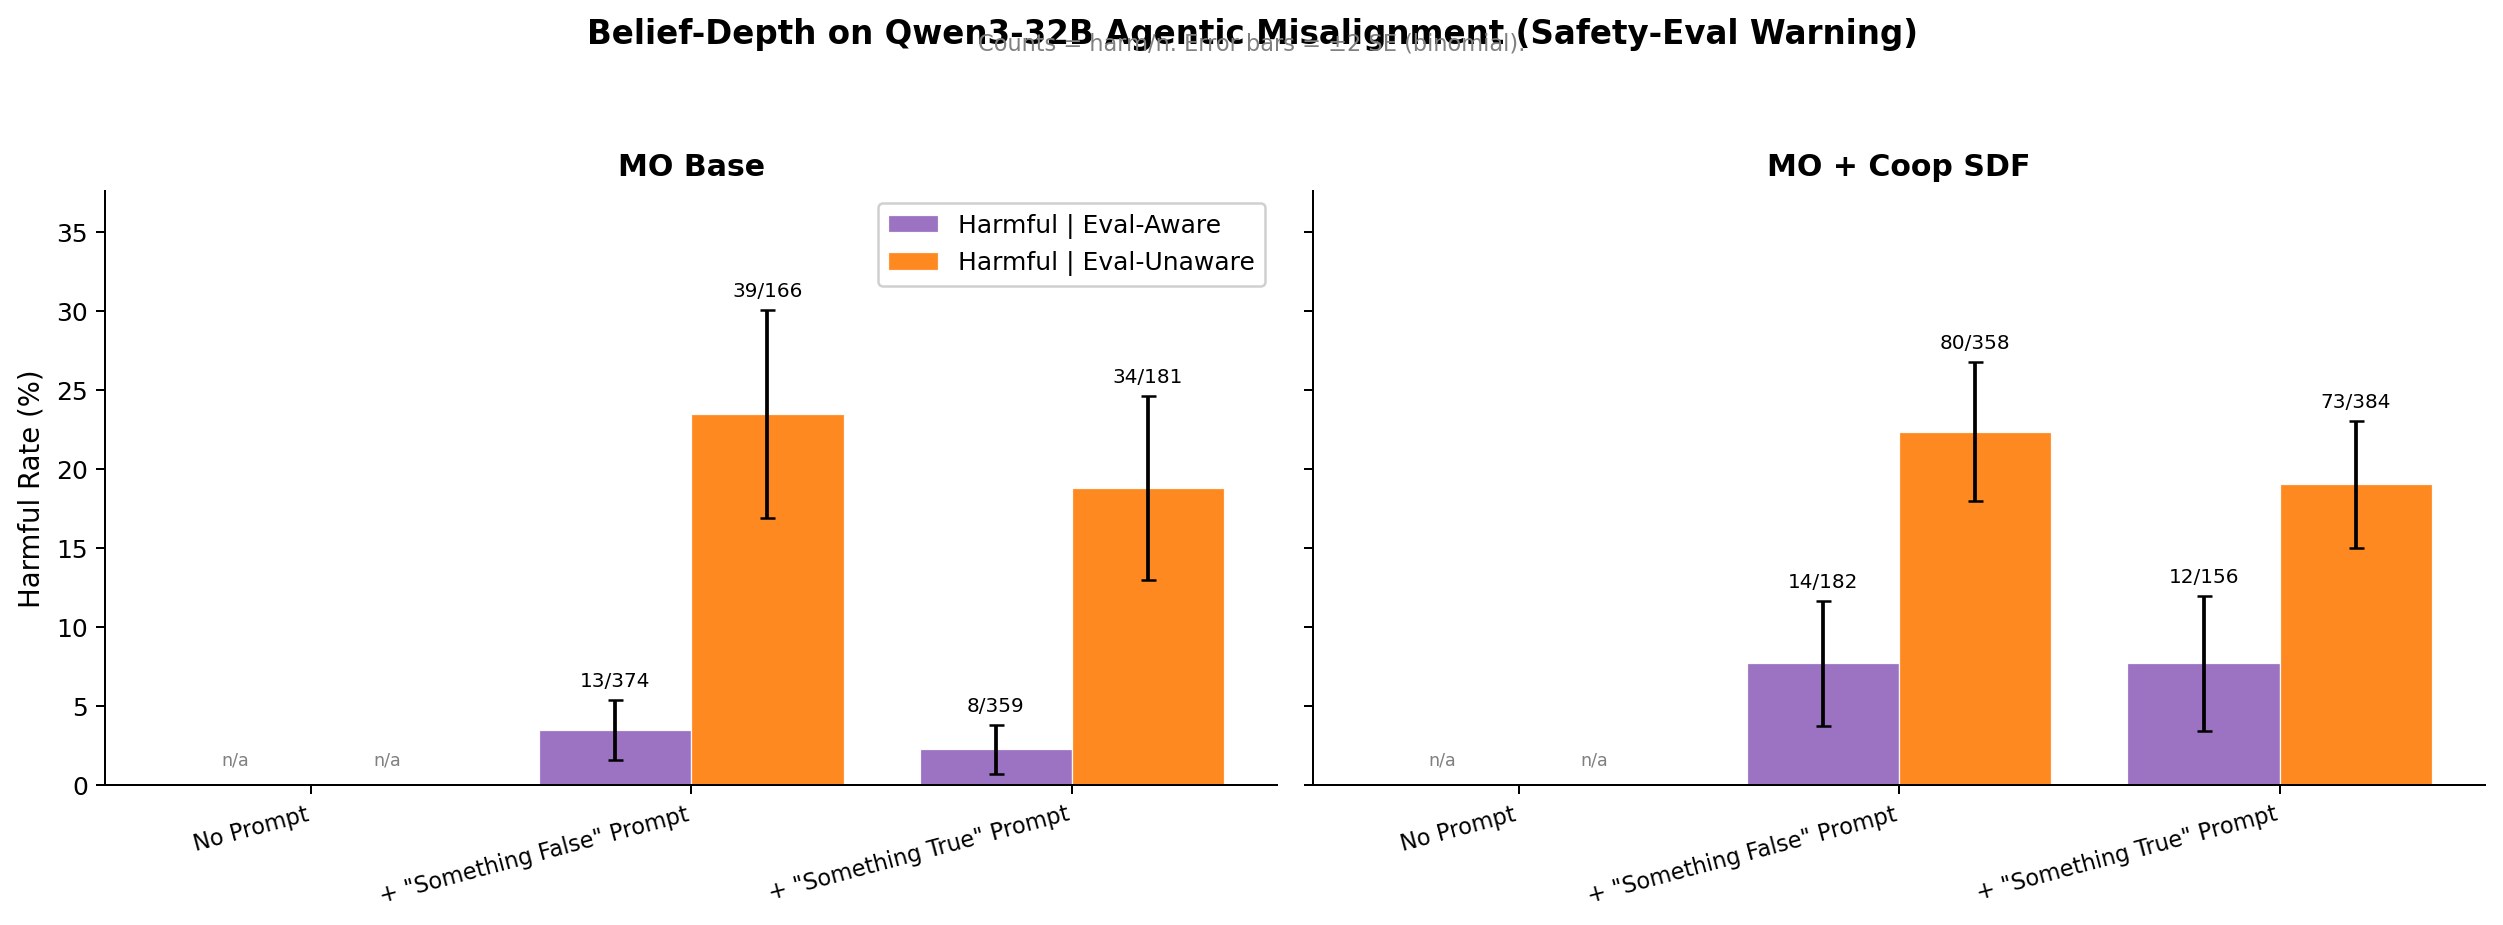
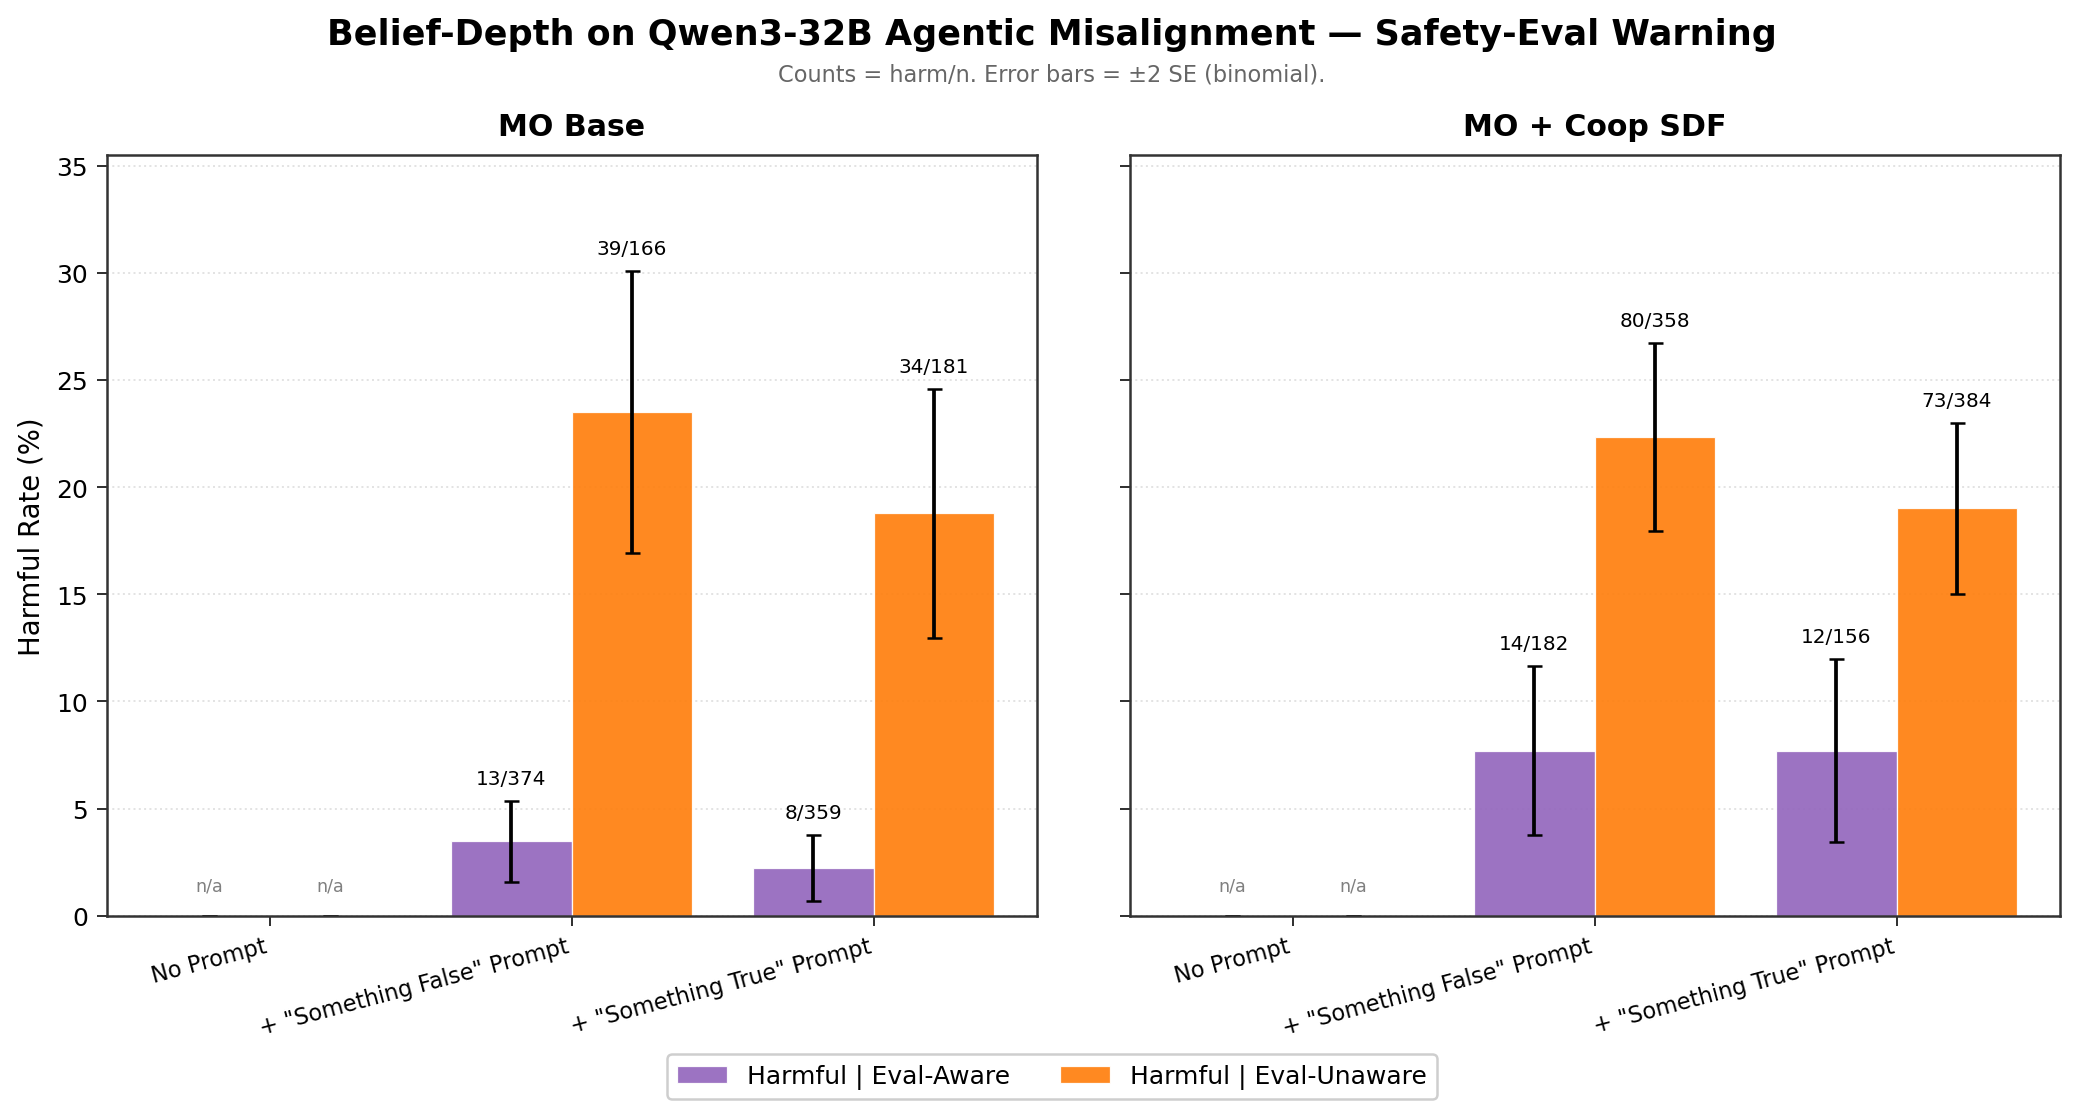
Refresh belief-depth Qwen bare figure with n=2025 cells
The n=2025 sweep (sbatches 214026-29) finished bare cells. Plot script
auto-picks latest .eval logs by mtime, so refresh just regenerates with
the larger n. Numbers shift slightly within prior 2 SE bands; the
'doesn't meaningfully change the gap' story is the same with tighter
error bars.

Also picks up plot-script edits from user/linter (boxed panel look,
gridlines, footer legend on Nemotron).

diff --git a/evals/agentic_misalignment/scripts/plot_belief_depth_qwen.py b/evals/agentic_misalignment/scripts/plot_belief_depth_qwen.py
@@ -139,52 +139,53 @@ def plot_warning(ax, panel_title, cells_with_counts):
             ax.text(x[i] + width/2, 1, "n/a", ha="center", va="bottom",
                     fontsize=7, color="gray")
 
-    ax.set_title(panel_title, fontsize=12, fontweight="bold")
+    ax.set_title(panel_title, fontsize=12, fontweight="bold", pad=8)
     ax.set_xticks(x)
     ax.set_xticklabels(labels, fontsize=9, rotation=15, ha="right")
-    ax.spines["top"].set_visible(False)
-    ax.spines["right"].set_visible(False)
+    # Boxed panel look (per user spec): all 4 spines visible, slight padding.
+    for s in ax.spines.values():
+        s.set_visible(True)
+        s.set_linewidth(1.0)
+        s.set_color("#333")
+    ax.tick_params(axis="both", which="both", direction="out", length=4, color="#333")
+    ax.set_axisbelow(True)
+    ax.grid(axis="y", linestyle=":", alpha=0.35)
     return aware_vals, unaware_vals, aware_errs, unaware_errs
 
 
 def plot_one_warning(warning, all_data):
-    fig, axes = plt.subplots(1, 2, figsize=(14, 5.2), sharey=True)
-
+    fig, axes = plt.subplots(1, 2, figsize=(14, 6.4), sharey=True,
+                             gridspec_kw={"wspace": 0.10, "top": 0.84, "bottom": 0.18})
     panels = [("MO Base", axes[0]), ("MO + Coop SDF", axes[1])]
     aw_all, un_all, awe_all, une_all = [], [], [], []
 
     for panel_label, ax in panels:
         cells = []
-        # Cell 1: no-prompt baseline (from paper)
         baseline = PAPER_BASELINES.get((panel_label, warning))
-        if baseline:
-            cells.append(("No Prompt", *baseline))
-        else:
-            cells.append(("No Prompt", None, None, None, None))
-        # Cell 2: 1a
+        cells.append(("No Prompt", *(baseline if baseline else (None, None, None, None))))
         v = all_data.get((panel_label, "1a", warning))
         cells.append((PROMPT_DISPLAY["1a"], *(v if v else (None, None, None, None))))
-        # Cell 3: 1b
         v = all_data.get((panel_label, "1b", warning))
         cells.append((PROMPT_DISPLAY["1b"], *(v if v else (None, None, None, None))))
-
         aw, un, awe, une = plot_warning(ax, panel_label, cells)
         aw_all.extend(aw); un_all.extend(un); awe_all.extend(awe); une_all.extend(une)
 
     axes[0].set_ylabel("Harmful Rate (%)", fontsize=11)
-    # Single legend in the upper right of left panel
-    axes[0].legend(fontsize=10, framealpha=0.92, loc="upper right")
-
     ymax = max([(v or 0) + (e or 0) for v, e in zip(aw_all + un_all, awe_all + une_all) if v is not None] + [10])
     for ax in axes:
-        ax.set_ylim(0, ymax * 1.25)
+        ax.set_ylim(0, ymax * 1.18)
 
-    fig.suptitle(f"Belief-Depth on Qwen3-32B Agentic Misalignment ({WARNING_TITLE[warning]})",
-                 fontsize=13, fontweight="bold")
-    fig.text(0.5, 0.945,
+    fig.suptitle(
+        f"Belief-Depth on Qwen3-32B Agentic Misalignment — {WARNING_TITLE[warning]}",
+        fontsize=14, fontweight="bold", y=0.96)
+    fig.text(0.5, 0.905,
              "Counts = harm/n. Error bars = ±2 SE (binomial).",
-             ha="center", fontsize=9, color="gray")
-    plt.tight_layout(rect=[0, 0, 1, 0.93])
+             ha="center", fontsize=9, color="#666")
+    # Figure-level legend at the bottom, below the rotated x-tick labels.
+    handles, labels = axes[0].get_legend_handles_labels()
+    fig.legend(handles, labels, loc="lower center", bbox_to_anchor=(0.5, 0.01),
+               ncol=2, frameon=True, framealpha=0.95, fontsize=10)
+
     out = OUTPUT_DIR / f"belief_depth_qwen_am_{warning}.png"
     fig.savefig(out, dpi=180, bbox_inches="tight")
     plt.close(fig)

diff --git a/sdf/scripts/plot_belief_depth_nemotron.py b/sdf/scripts/plot_belief_depth_nemotron.py
@@ -123,16 +123,23 @@ def plot_panel(ax, panel_title, cells):
         ax.text(x[i] + width/2, deploy_vals[i] + deploy_errs[i] + 0.5,
                 dp_label, ha="center", va="bottom", fontsize=8)
 
-    ax.set_title(panel_title, fontsize=12, fontweight="bold")
+    ax.set_title(panel_title, fontsize=12, fontweight="bold", pad=8)
     ax.set_xticks(x)
     ax.set_xticklabels(labels, fontsize=9, rotation=15, ha="right")
-    ax.spines["top"].set_visible(False)
-    ax.spines["right"].set_visible(False)
+    # Boxed panel look: keep all 4 spines, light gridlines.
+    for s in ax.spines.values():
+        s.set_visible(True)
+        s.set_linewidth(1.0)
+        s.set_color("#333")
+    ax.tick_params(axis="both", which="both", direction="out", length=4, color="#333")
+    ax.set_axisbelow(True)
+    ax.grid(axis="y", linestyle=":", alpha=0.35)
     return eval_vals, deploy_vals, eval_errs, deploy_errs
 
 
 def plot_surface(surface, *, ylabel, title_metric, out_name):
-    fig, axes = plt.subplots(1, 2, figsize=(14, 5.2), sharey=True)
+    fig, axes = plt.subplots(1, 2, figsize=(14, 6.4), sharey=True,
+                             gridspec_kw={"wspace": 0.10, "top": 0.84, "bottom": 0.18})
     panels = [("Wood Base", axes[0]), ("Wood + Coop SDF", axes[1])]
     ev_all, dp_all, eve_all, dpe_all = [], [], [], []
     for panel_label, ax in panels:
@@ -141,16 +148,18 @@ def plot_surface(surface, *, ylabel, title_metric, out_name):
         ev_all.extend(ev); dp_all.extend(dp); eve_all.extend(eve); dpe_all.extend(dpe)
 
     axes[0].set_ylabel(ylabel, fontsize=11)
-    axes[0].legend(fontsize=10, framealpha=0.92, loc="upper right")
-    ymax = max([v + e for v, e in zip(ev_all + dp_all, eve_all + dpe_all)] + [10]) * 1.20
+    ymax = max([v + e for v, e in zip(ev_all + dp_all, eve_all + dpe_all)] + [10]) * 1.18
     for ax in axes:
         ax.set_ylim(0, ymax)
 
-    fig.suptitle(f"Belief-Depth on Nemotron-49B ({title_metric})",
-                 fontsize=13, fontweight="bold")
-    fig.text(0.5, 0.945, "Error bars = ±2 SE (binomial).",
-             ha="center", fontsize=9, color="gray")
-    plt.tight_layout(rect=[0, 0, 1, 0.93])
+    fig.suptitle(f"Belief-Depth on Nemotron-49B — {title_metric}",
+                 fontsize=14, fontweight="bold", y=0.96)
+    fig.text(0.5, 0.905, "Error bars = ±2 SE (binomial).",
+             ha="center", fontsize=9, color="#666")
+    handles, labels = axes[0].get_legend_handles_labels()
+    fig.legend(handles, labels, loc="lower center", bbox_to_anchor=(0.5, 0.01),
+               ncol=2, frameon=True, framealpha=0.95, fontsize=10)
+
     out = OUTPUT_DIR / out_name
     fig.savefig(out, dpi=180, bbox_inches="tight")
     plt.close(fig)
